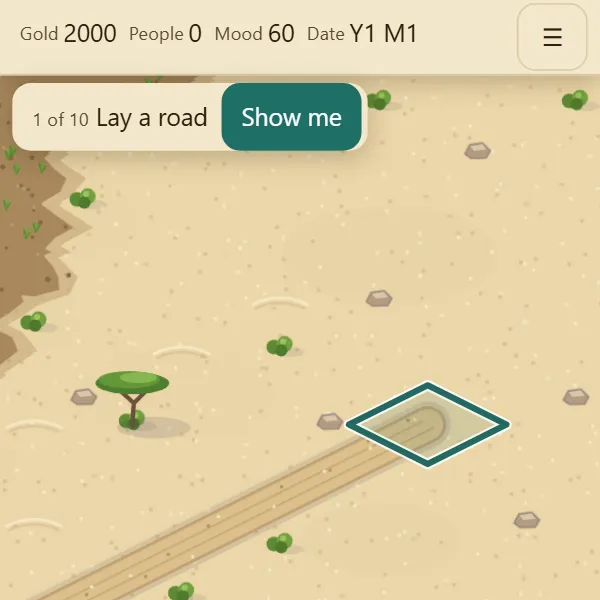
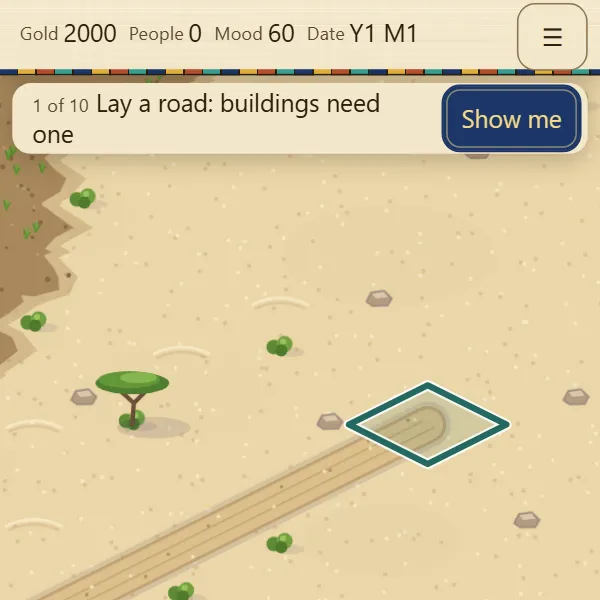
Picture cards made again on the final art and look
tools/tutorial.ps1 run after the visual polish and the wrap-up's fixes; the -Check shots of
all six cards at a phone held both ways were opened, and each ring or arrow sits on its
thing (the road, the well, the Ground button, the bazaar's workers row, Show me, the
mastaba going up).

Changed region(s): [[0.0, 0.03, 1.0, 0.27], [0.87, 0.0, 0.96, 0.03]]

diff --git a/sw-files.js b/sw-files.js
@@ -1,6 +1,6 @@
 // Generated by tools/sw-files.ps1. Do not edit: run the tool after adding or changing files.
 self.THEBES_VERSION = '0.1';
-self.THEBES_BUILD = '0677e42332ba';
+self.THEBES_BUILD = '84163ca3f439';
 self.THEBES_FILES = [
   './',
   './assets/tutorial/ahead.webp',
